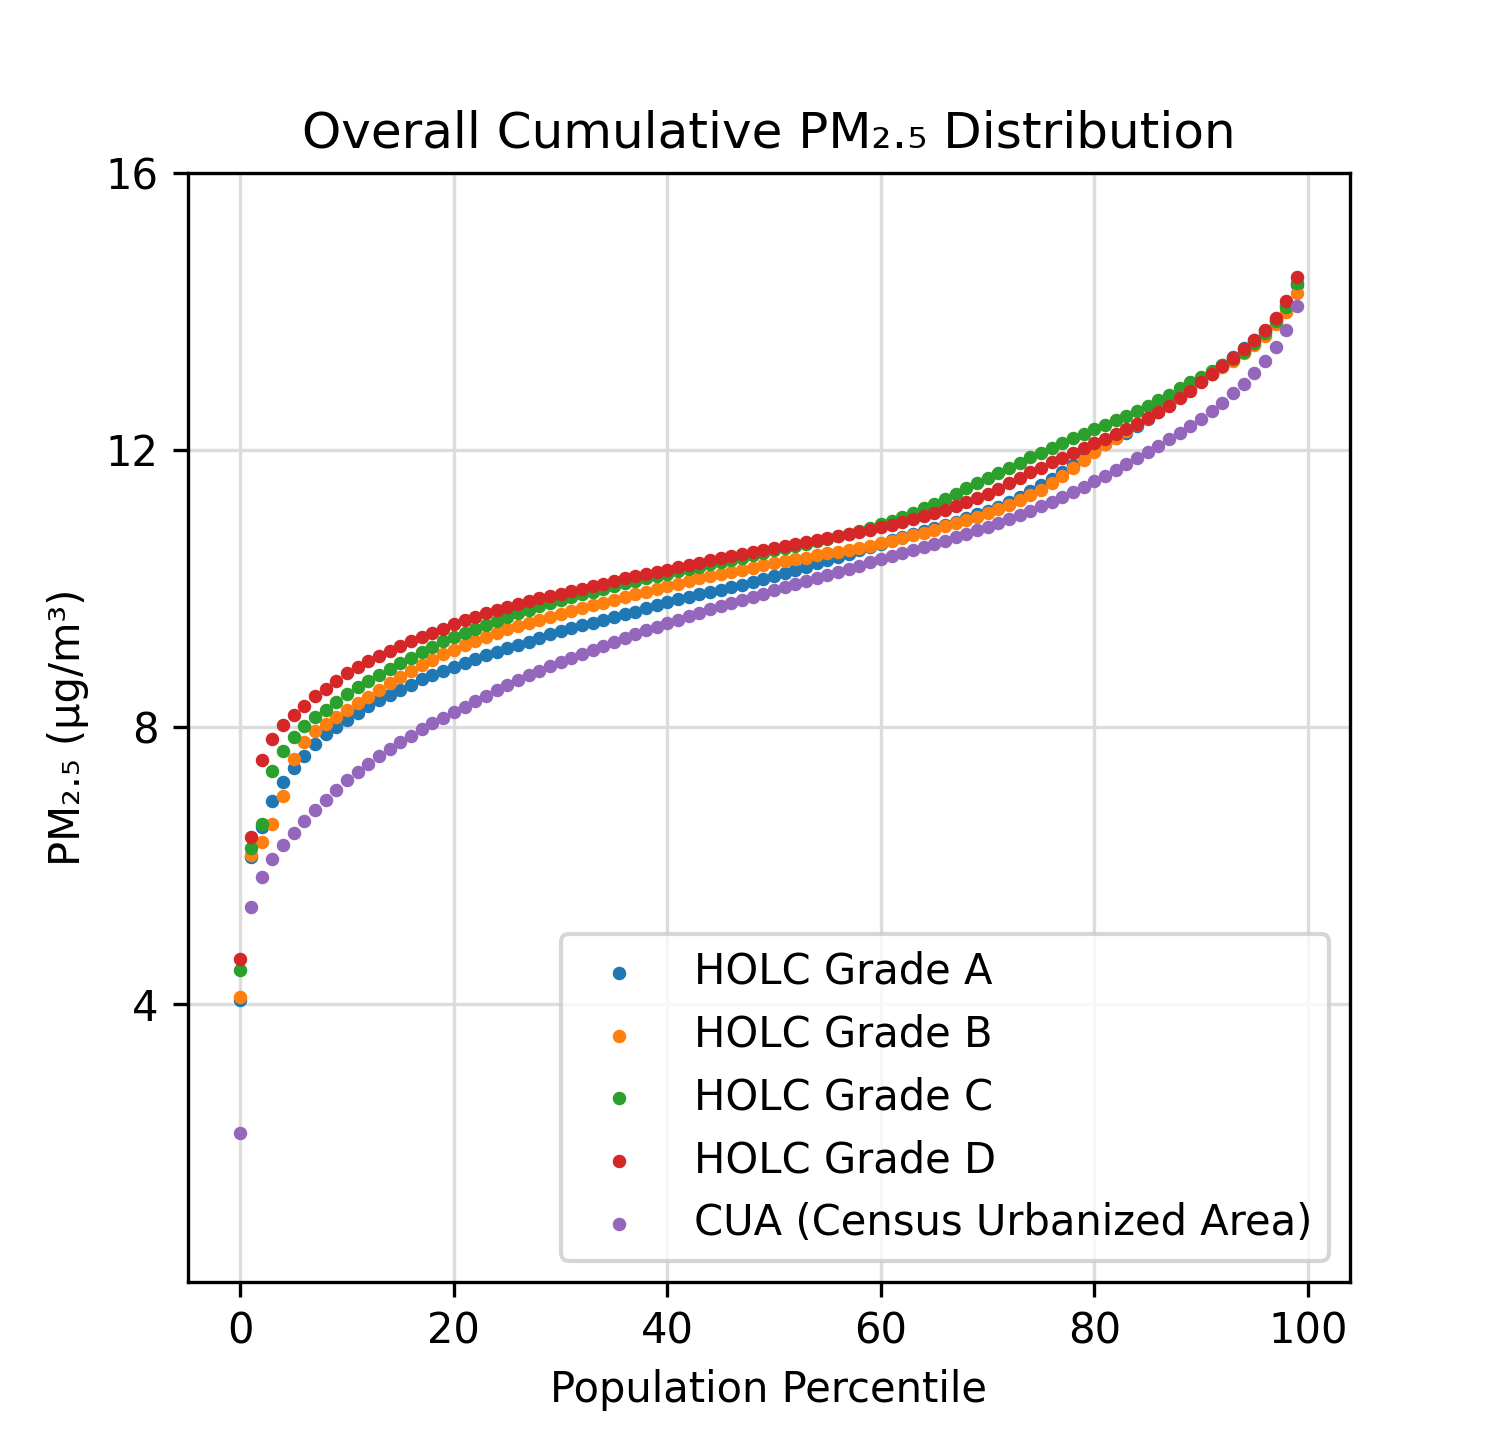
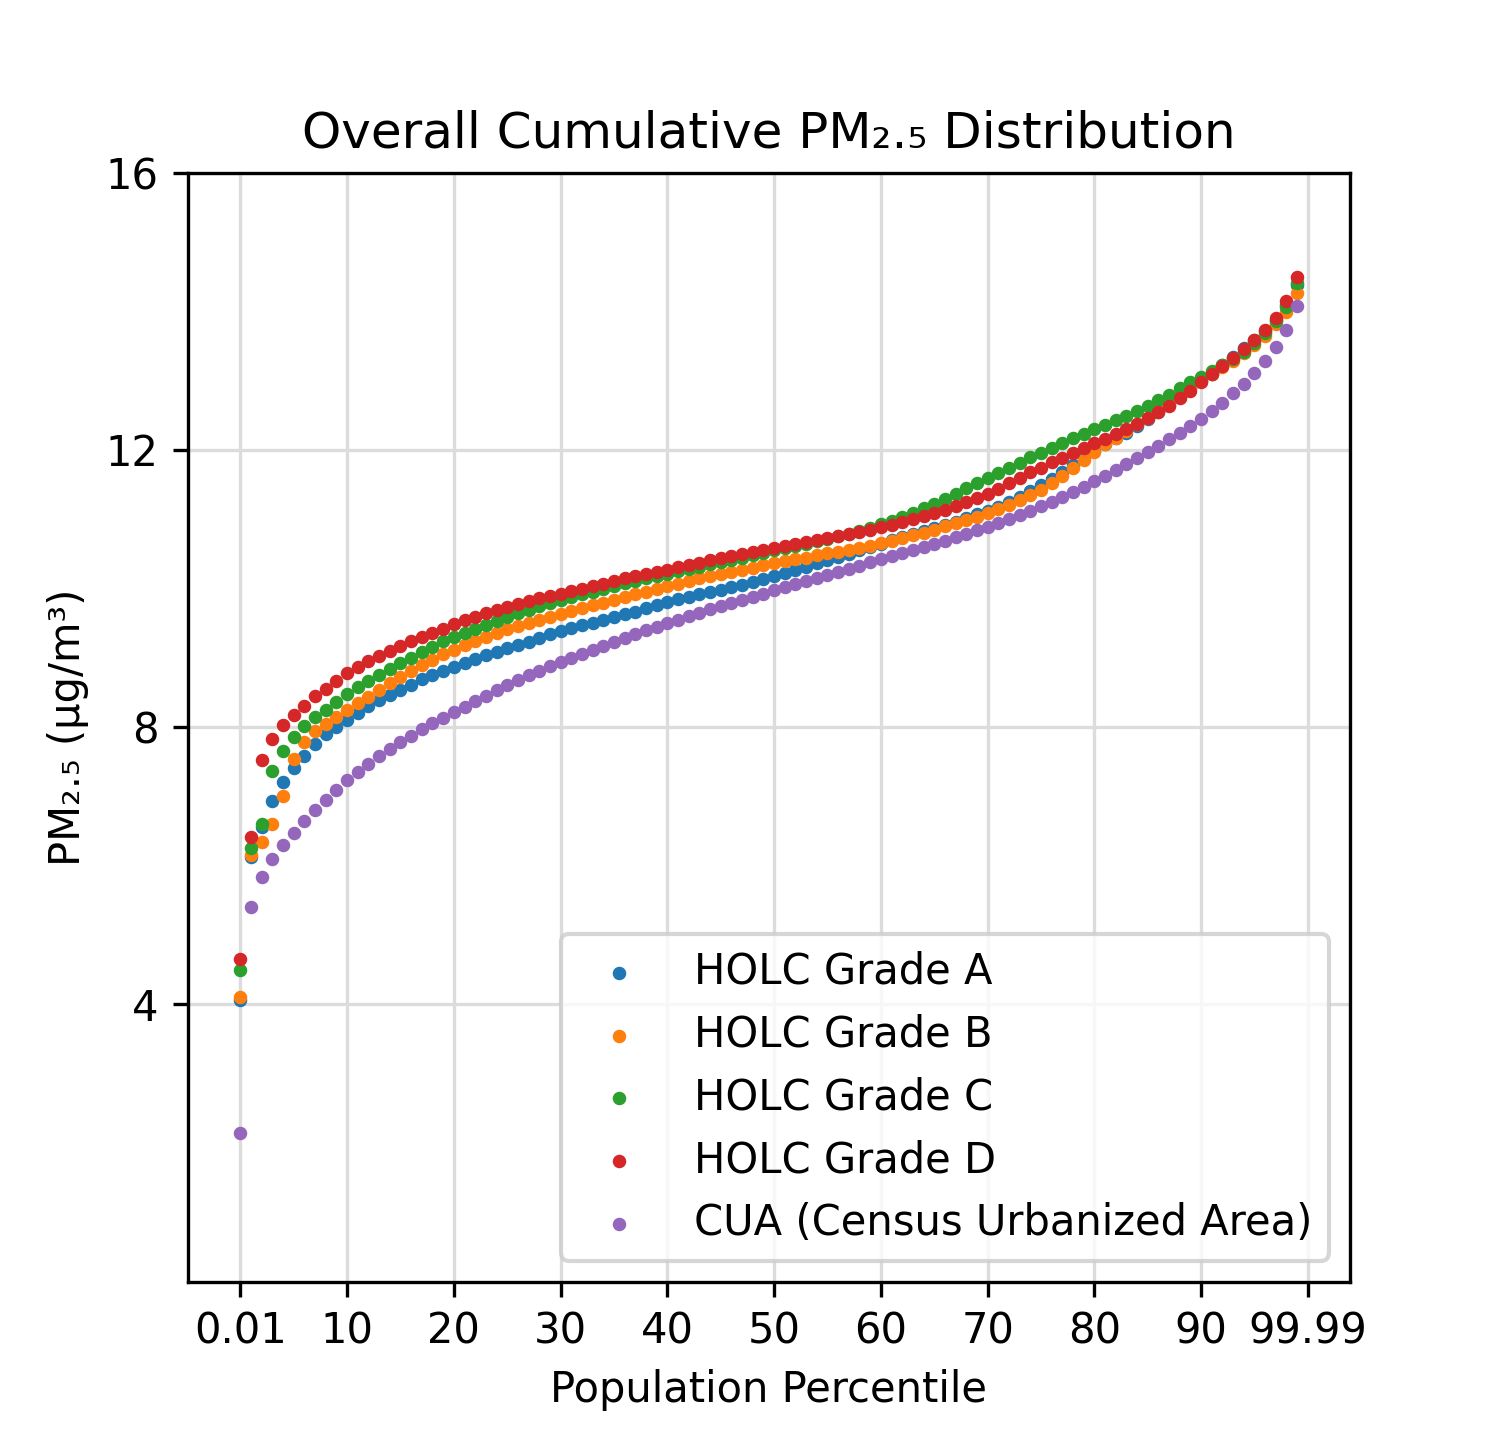
changed percentile range to 0.01-99.99

diff --git a/figure-s4/figure-s4.py b/figure-s4/figure-s4.py
@@ -3,7 +3,7 @@ from utils import collect_data_percentile
 
 import matplotlib.pyplot as plt
 
-def generate_plot(data, percentiles, title, x_label, y_label, y_min, y_max, y_ticks, file_name):
+def generate_plot(data, percentiles, title, x_label, y_label, y_min, y_max, x_tick_loc, x_ticks, y_ticks, file_name):
    fig, ax = plt.subplots()
    l1 = plt.scatter(percentiles, data[0], s = 5, label = 'HOLC Grade A')
    l2 = plt.scatter(percentiles, data[1], s = 5, label = 'HOLC Grade B')
@@ -14,6 +14,7 @@ def generate_plot(data, percentiles, title, x_label, y_label, y_min, y_max, y_ti
    ax.set_xlabel(x_label)
    ax.set_ylabel(y_label)
    ax.set_ylim(y_min, y_max)
+   ax.set_xticks(x_tick_loc, x_ticks)
    ax.set_yticks(y_ticks)
    ax.legend()
    ax.set_axisbelow(True)
@@ -26,10 +27,11 @@ df = init()
 no2_data = collect_data_percentile(df, 'PHOLC', 'Total', 'NO2')
 pm25_data = collect_data_percentile(df, 'PHOLC', 'Total', 'PM25')
 percentiles = range(0, 100)
+ticks = (0.01, 10, 20, 30, 40, 50, 60, 70, 80, 90, 99.99)
 
 generate_plot(no2_data, percentiles, 'Overall Cumulative NO₂ Distribution',
-              'Population Percentile', 'NO₂ (ppb)', 0, 35, (0, 10, 20, 30),
+              'Population Percentile', 'NO₂ (ppb)', 0, 35, ticks, ticks, (0, 10, 20, 30),
               'figure-s4-a.png')
 generate_plot(pm25_data, percentiles, 'Overall Cumulative PM₂.₅ Distribution',
-              'Population Percentile', 'PM₂.₅ (μg/m³)', 0, 16, (4, 8, 12, 16),
+              'Population Percentile', 'PM₂.₅ (μg/m³)', 0, 16, ticks, ticks, (4, 8, 12, 16),
               'figure-s4-b.png')
